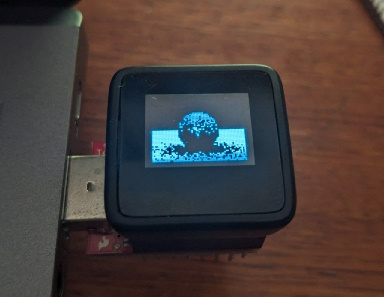
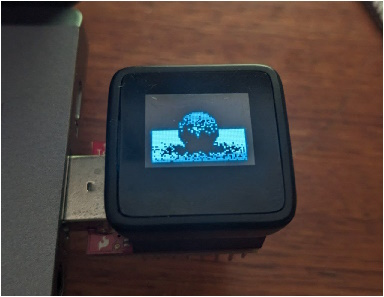
update demo image

Changed region(s): [[0.0, 0.9697, 1.0, 1.0], [0.0, 0.0, 1.0, 0.0303]]

diff --git a/README.md b/README.md
@@ -1,7 +1,8 @@
 
 # Arduino Raytracer
-
-![demo](demo.jpg)
+<p align="center">
+<img src="demo.jpg" alt="demo" width="200"/>
+</p>
 
 Barebones raytracing implementation in Arduino C++.  
 Some code was adapted from https://github.com/caosdoar/arduino-raytracer/.  
